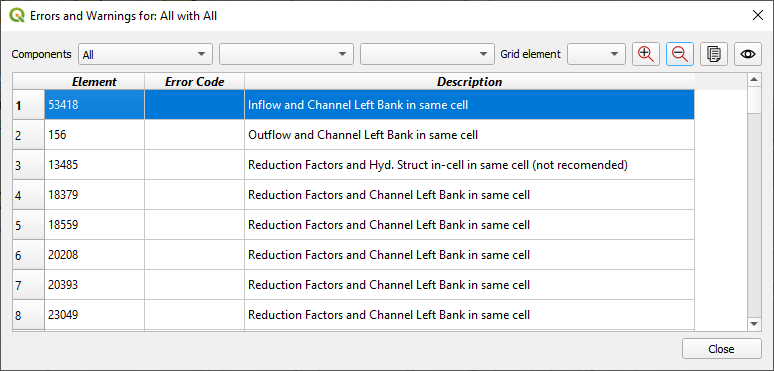
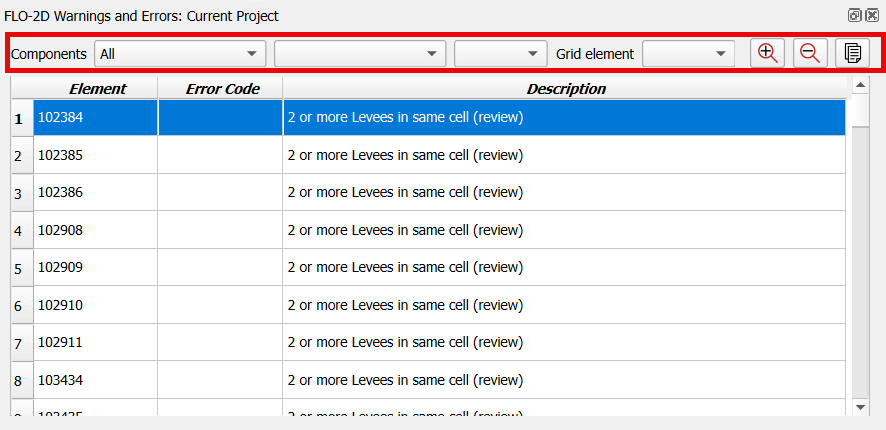
Doc debug tool (#1133)
* Reimplemented the Debug tool. Fixed minor bugs (deprecation and zombie processes). Changed all the Warning and Errors to dock instead of Dialog. Did some small changes on the layout.

* Converted the QgsVectorFileWriter to writeAsVectorFormatV3 because of deprecation issues.

* Updated the documentation for the Debug Tool

diff --git a/docs/user/source/toolbar/Debug Tool.rst b/docs/user/source/toolbar/Debug Tool.rst
@@ -1,95 +1,102 @@
 Debug Tool
 ===========
 
-Data Warnings and Errors
--------------------------
-
-The Data Warnings and Error button opens a system that helps the user
-debug data files and search for data conflicts.
-
 .. image:: ../img/Buttons/debug.png
 
+Warnings and Errors
+-------------------
 
-1. Perform
-   a debug run.
+The Warnings and Errors feature provides a system to assist users in debugging data files
+and identifying data conflicts. To utilize this tool effectively, follow the steps outlined below.
 
+1. Open the FLO-2D Settings
 
-2. `Export
-   the \*.DAT Files <Export%20Project.html>`__.
+.. image:: ../img/Buttons/settings.png
 
-3. Click the
-   Run FLO-2D button.
+2. Perform a debug run
 
 .. image:: ../img/Debug/debug2.png
 
-
-4. This will automatically trigger the FLO-2D check system performed by
-   the engine FLOPRO.EXE.
+.. image:: ../img/Debug/debug4.png
 
 .. image:: ../img/Debug/debug3.png
 
+3. This will automatically trigger the FLO-2D check system performed by
+   the engine FLOPRO.EXE.
 
-.. image:: ../img/Debug/debug4.png
+.. note:: The DEBUG.OUT file is created when the user runs the model in Debug mode.
+          This file helps to identify data errors and data conflicts. These error
+          checks do not include any simulation results.
 
 
-5. The model will execute, perform the data checks and then
+4. The model will execute, perform the data checks and then
    automatically shut down. Every time the debug is executed, a new
    debug file with a timestamp is saved to the project folder.
 
 .. image:: ../img/Debug/debug5.png
 
 
-6. Click the Error and
+5. Click the Error and
    Warning button to open the import dialog box.
 
 .. image:: ../img/Buttons/debug.png
 
 .. image:: ../img/Debug/debug6.png
 
-Debug
------
+.. note:: The Errors and Warnings shows all Errors, Conflicts, and
+          Warnings created by the file checking program. All of these boxes can be
+          used to sort and view and pan to cells with potential issues.
 
-7. To import the Debug files, click the Import DEBUG File button. The
+DEBUG File
+----------
+
+1. To import the Debug files, click the Import DEBUG File button. The
    DEBUG file will have a date and timestamp to track progress.
 
 .. image:: ../img/Debug/debug7.png
 
-
-
-8. The import process will include several files that can be used to
+2. The import process will include several files that can be used to
    help users review surface features such as rim elevations, depressed
    elements and channel – floodplain interface. Click Yes to load the
    Errors and Warning Dialog box and import the review files.
 
 .. image:: ../img/Debug/debug8.png
 
-Conflicts
----------
-
-The Current Project option will create a list of data conflicts. These
-conflicts are not necessarily errors, they are generated based on the
-conflict matrix. The conflict matrix is located Here:
-c:\users\public\documents\FLO-2D Pro Documentation\Handouts\Conflict
-Matrix.pdf
-
-Levee Crests
-------------
-
-The final option is Levee Crest validation tool. It is used to review
-the levees and grid element elevations.
-
-Dialog Boxes
-------------
-
-The Errors and Warnings Dialog box shows all Errors, Conflicts, and
-Warnings created by the file checking program. All of these boxes can be
-used to sort and view and pan to cells with potential issues.
+3. The FLO-2D Warnings and Errors: DEBUG File will initially appear docked at the
+   bottom but can be freely repositioned. The Errors/Warnings can be filtered
+   by code and grid element using the comboboxes on the top. It is possible
+   to zoom in or out to locate the grid element that contains the Error/Warning.
 
 .. image:: ../img/Debug/debug9.png
 
 
+Current Project
+---------------
+
+1. The Current Project option will create a list of data conflicts. These
+   conflicts are not necessarily errors, they are generated based on the
+   conflict matrix. The conflict matrix is located at:
+   :file:`C:\\Users\\Public\\Documents\\FLO-2D Pro Documentation\\Handouts\\Conflict Matrix.pdf`
+
+2. The FLO-2D Warnings and Errors: Current Project will initially appear docked at the
+   bottom but can be freely repositioned. The Errors/Warnings can be filtered
+   by component type and grid element using the comboboxes on the top. It is possible
+   to zoom in or out to locate the grid element that contains the Error/Warning and
+   copy the cell contents.
+
 .. image:: ../img/Debug/debug10.png
 
+Levee Crests
+------------
+
+1. The final option is Levee Crests validation tool. It is used to review
+   the levees and grid element elevations.
+
+2. The FLO-2D Warnings and Errors: Levee Crests will initially appear docked at the
+   bottom but can be freely repositioned. The Errors/Warnings can be filtered
+   by grid element using the comboboxes on the top. It is possible
+   to zoom in or out to locate the grid element that contains the Error/Warning and
+   copy the cell contents.
 
 .. image:: ../img/Debug/debug11.png
 
@@ -97,14 +104,14 @@ used to sort and view and pan to cells with potential issues.
 Debug Layers
 ------------
 
-The layers show points where there are differences between channel bank
-and floodplain bank elevations, rim and floodplain inlet elevations, and
-depressed elements and levee crest elevations. In this example, the
-layers are grouped using a QGIS standard layer grouping procedure.
+1. The layers show points where there are differences between channel bank
+   and floodplain bank elevations, rim and floodplain inlet elevations, and
+   depressed elements and levee crest elevations. In this example, the
+   layers are grouped using a QGIS standard layer grouping procedure.
 
 .. image:: ../img/Debug/debug12.png
 
-Each layer has an attribute table that can be sorted and used to find
-grid elements that may need elevation edits.
+2. Each layer has an attribute table that can be sorted and used to find
+   grid elements that may need elevation edits.
 
 .. image:: ../img/Debug/debug13.png
